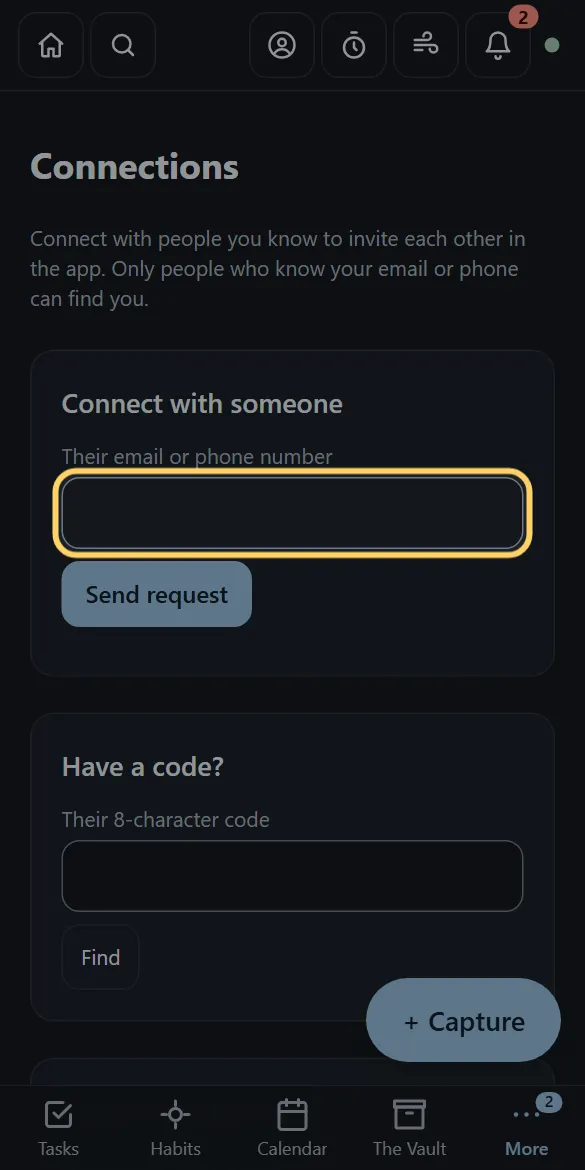
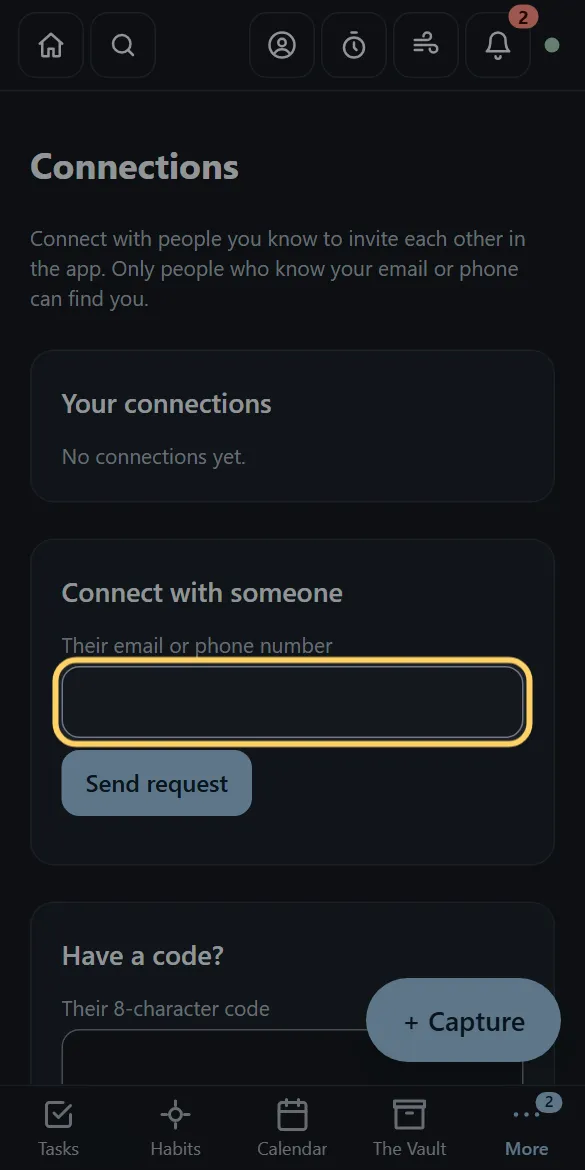
PROGRESS: Connections in Account People, Help picture

diff --git a/PROGRESS.md b/PROGRESS.md
@@ -9,6 +9,9 @@ Older steps (1–11, feedback rounds 1–3, connections, navigation, Account tid
 - **Needs from the user:** the Cheers smug lines (`messages.cheers.afterReact`, `messages.cheers.subtitle`, and the unstuck alert, which lives in `post_cheer` in the migrations, so changing it is a small migration) and the Cheering others on trophy names and "You…" lines (`celebrations.trophies.names` / `about` / `earnedAbout`: cheers_given, cheer_days, cheer_firsts, cheer_unstuck, cheering_while_stuck). All are plain placeholders. The I'm stuck lines (`messages.cheers.stuckLines`) are sincere drafts for the user to check.
 - **Small gap:** Download my data doesn't include Cheers posts (they live only on the server and expire after 48 hours).
 
+## Connections in Account › People; Offsite connections (merged via PR, branch `people-connections-inline`)
+- User 2026-11-19: Account › People shows Connections in full (shared `ConnectionsPanel.vue`, also the Connections page; order: requests, connections, sent, ways to connect), then "Your people" renamed **Offsite connections**, each with a hint saying what it is. Contacts window headed Contacts, with Connections and Offsite connections sections. SPEC §5, §10; DECISIONS 2026-11-19. Help Connections step and picture updated. `npm run test:all` passed (Vitest 449, Playwright 825).
+
 ## "Event news reaches me by" removed (merged via PR, branch `remove-notify-choice`)
 - User 2026-11-19: no email or texting yet, so the Email / Text / Both choice is gone from Account › Events and the welcome step; event news is in-app only. `profiles.event_notify_method` stays (no migration) so the choice can return with email. SPEC §4, §5; DECISIONS 2026-11-19. `npm run test:all` passed (Vitest 449, Playwright 823; the a11y full-screen writing test flaked once on iPhone, 3/3 on rerun).
 
